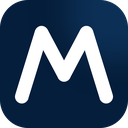
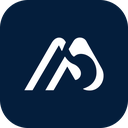
Restaura monograma oficial nos icones

Changed region(s): [[0.0938, 0.0, 1.0, 0.8125]]

diff --git a/template.html b/template.html
@@ -15,20 +15,21 @@
      PRECISA ficar dentro do <head> e vir no HTML de saida: a Meta le a fonte
      da pagina, nao o que o JavaScript monta depois. Nao remover. -->
 <meta name="facebook-domain-verification" content="8h4bx2xfl4rekh1p45nfbvz53jprns">
-<!-- Icone oficial (21/09/2026): o "M" branco sobre o azul, gerado por
-     gerar_icones.py com correcao optica para continuar legivel em 16 pixels.
-     Antes o monograma completo parecia um "A" quando reduzido na aba.
+<!-- Icone oficial (21/09/2026): o monograma branco original sobre o azul,
+     extraido por gerar_icones.py diretamente do logo do Dr. Marcello.
+     Nos tamanhos pequenos ele recebe apenas ampliacao e reforco de traco;
+     o desenho da marca nao e substituido nem redesenhado.
      favicon.ico vem primeiro porque navegador antigo so entende esse; os PNG
      abaixo e que os modernos usam de fato. -->
-<link rel="icon" href="%%ASSET:favicon.ico%%?v=2" sizes="any">
-<link rel="icon" type="image/png" sizes="32x32" href="%%ASSET:icone-32.png%%?v=2">
-<link rel="icon" type="image/png" sizes="16x16" href="%%ASSET:icone-16.png%%?v=2">
-<link rel="icon" type="image/png" sizes="192x192" href="%%ASSET:icone-192.png%%?v=2">
+<link rel="icon" href="%%ASSET:favicon.ico%%?v=3" sizes="any">
+<link rel="icon" type="image/png" sizes="32x32" href="%%ASSET:icone-32.png%%?v=3">
+<link rel="icon" type="image/png" sizes="16x16" href="%%ASSET:icone-16.png%%?v=3">
+<link rel="icon" type="image/png" sizes="192x192" href="%%ASSET:icone-192.png%%?v=3">
 <!-- Atalho na tela do celular. O arquivo do apple-touch vem quadrado e opaco
      de proposito: o iOS aplica a mascara arredondada dele por cima, e um
      arquivo ja arredondado seria cortado duas vezes. -->
-<link rel="apple-touch-icon" href="%%ASSET:apple-touch-icon.png%%?v=2">
-<link rel="manifest" href="%%ASSET:manifest.webmanifest%%?v=2">
+<link rel="apple-touch-icon" href="%%ASSET:apple-touch-icon.png%%?v=3">
+<link rel="manifest" href="%%ASSET:manifest.webmanifest%%?v=3">
 <meta name="apple-mobile-web-app-title" content="Dr. Marcello Ruiz">
 <link rel="preconnect" href="https://fonts.googleapis.com">
 <link rel="preconnect" href="https://fonts.gstatic.com" crossorigin>

diff --git a/docs/index.html b/docs/index.html
@@ -15,20 +15,21 @@
      PRECISA ficar dentro do <head> e vir no HTML de saida: a Meta le a fonte
      da pagina, nao o que o JavaScript monta depois. Nao remover. -->
 <meta name="facebook-domain-verification" content="8h4bx2xfl4rekh1p45nfbvz53jprns">
-<!-- Icone oficial (21/09/2026): o "M" branco sobre o azul, gerado por
-     gerar_icones.py com correcao optica para continuar legivel em 16 pixels.
-     Antes o monograma completo parecia um "A" quando reduzido na aba.
+<!-- Icone oficial (21/09/2026): o monograma branco original sobre o azul,
+     extraido por gerar_icones.py diretamente do logo do Dr. Marcello.
+     Nos tamanhos pequenos ele recebe apenas ampliacao e reforco de traco;
+     o desenho da marca nao e substituido nem redesenhado.
      favicon.ico vem primeiro porque navegador antigo so entende esse; os PNG
      abaixo e que os modernos usam de fato. -->
-<link rel="icon" href="assets/favicon.ico?v=2" sizes="any">
-<link rel="icon" type="image/png" sizes="32x32" href="assets/icone-32.png?v=2">
-<link rel="icon" type="image/png" sizes="16x16" href="assets/icone-16.png?v=2">
-<link rel="icon" type="image/png" sizes="192x192" href="assets/icone-192.png?v=2">
+<link rel="icon" href="assets/favicon.ico?v=3" sizes="any">
+<link rel="icon" type="image/png" sizes="32x32" href="assets/icone-32.png?v=3">
+<link rel="icon" type="image/png" sizes="16x16" href="assets/icone-16.png?v=3">
+<link rel="icon" type="image/png" sizes="192x192" href="assets/icone-192.png?v=3">
 <!-- Atalho na tela do celular. O arquivo do apple-touch vem quadrado e opaco
      de proposito: o iOS aplica a mascara arredondada dele por cima, e um
      arquivo ja arredondado seria cortado duas vezes. -->
-<link rel="apple-touch-icon" href="assets/apple-touch-icon.png?v=2">
-<link rel="manifest" href="assets/manifest.webmanifest?v=2">
+<link rel="apple-touch-icon" href="assets/apple-touch-icon.png?v=3">
+<link rel="manifest" href="assets/manifest.webmanifest?v=3">
 <meta name="apple-mobile-web-app-title" content="Dr. Marcello Ruiz">
 <link rel="preconnect" href="https://fonts.googleapis.com">
 <link rel="preconnect" href="https://fonts.gstatic.com" crossorigin>

diff --git a/gerar_icones.py b/gerar_icones.py
@@ -1,107 +1,108 @@
-"""Gera todos os icones do site e do PWA do Dr. Marcello.
+# Gera o jogo de icones (favicon, atalho de celular, PWA) a partir do "M" do
+# logo. Rode de novo sempre que a marca mudar; nao edite os PNG na mao.
+#
+# A fonte e o proprio logo do site (logo-dr-marcello.png), nao uma imagem
+# solta: o "M" de la e o unico que vai continuar igual quando a marca mudar.
+# Ele vem em dois tons escuros, para fundo claro; aqui vira branco solido,
+# que e como o icone oficial (21/09/2026) mostra a marca sobre o azul.
 
-O simbolo completo do logo funciona bem em tamanho grande, mas perde a leitura
-na aba do navegador. Por isso os icones usam uma versao opticamente corrigida:
-um M geometrico, com o mesmo gesto inclinado da marca, traco branco mais largo
-e espaco negativo suficiente para continuar legivel em 16 x 16 pixels.
-"""
-
-from pathlib import Path
 from PIL import Image, ImageDraw, ImageFilter
+from pathlib import Path
 
-
-FUNDO = (4, 30, 60)  # #041E3C
-BRANCO = (255, 255, 255, 255)
+FUNDO = (4, 30, 60)          # #041E3C - amostrado do icone oficial
 MASTER = 1024
 
+def m_branco(origem: Path) -> Image.Image:
+    """O 'M' do logo, recortado e pintado de branco solido."""
+    logo = Image.open(origem).convert("RGBA")
+    # Primeiro bloco horizontal com tinta = o simbolo; o resto e o texto.
+    import numpy as np
+    a = np.array(logo.split()[3])
+    cols = (a > 10).sum(axis=0)
+    ini = next(i for i, v in enumerate(cols) if v > 0)
+    fim = ini
+    for i in range(ini, len(cols)):
+        if cols[i] > 0:
+            fim = i
+        elif i - fim > 10:
+            break
+    sim = logo.crop((ini, 0, fim + 1, logo.height))
+    sim = sim.crop(sim.split()[3].getbbox())
+    branco = Image.new("RGBA", sim.size, (255, 255, 255, 0))
+    branco.putalpha(sim.split()[3])
+    branco.paste((255, 255, 255), (0, 0), sim.split()[3])
+    branco.putalpha(sim.split()[3])
+    return branco
 
-def fundo(lado: int, raio: float, opaco: bool = False) -> Image.Image:
-    """Cria a placa azul com um brilho discreto no canto superior direito."""
-    base = Image.new("RGBA", (lado, lado), (0, 0, 0, 0))
-    mascara = Image.new("L", (lado, lado), 0)
-    md = ImageDraw.Draw(mascara)
-    r = 0 if opaco else round(lado * raio)
-    md.rounded_rectangle((0, 0, lado - 1, lado - 1), radius=r, fill=255)
 
-    placa = Image.new("RGBA", (lado, lado), FUNDO + (255,))
-    brilho = Image.new("RGBA", (lado, lado), (0, 0, 0, 0))
-    bd = ImageDraw.Draw(brilho)
-    bd.ellipse(
-        (lado * 0.42, -lado * 0.28, lado * 1.28, lado * 0.58),
-        fill=(28, 83, 139, 82),
-    )
-    brilho = brilho.filter(ImageFilter.GaussianBlur(lado * 0.14))
-    placa = Image.alpha_composite(placa, brilho)
-    base.paste(placa, (0, 0), mascara)
-    return base
+def engrossar(m: Image.Image, px: int) -> Image.Image:
+    """Engorda o traco do M dilatando o alfa.
+
+    Existe por causa da aba do navegador. Ali o icone tem 16 a 20 pixels de
+    lado: o "M" inteiro cabe em ~400 pixels, e os bracos dele ficam com menos
+    de um pixel de espessura. O navegador entao pinta cinza claro em vez de
+    branco (antialiasing), e a marca some no azul - foi o que apareceu na aba
+    em 21/09/2026. Engordar o traco antes de encolher devolve o contraste.
+
+    So vale para os tamanhos miudos. Em 192 ou 512 isso deformaria a marca.
+    """
+    a = m.split()[3].filter(ImageFilter.MaxFilter(px * 2 + 1))
+    out = Image.new("RGBA", m.size, (255, 255, 255, 0))
+    out.paste((255, 255, 255), (0, 0), a)
+    out.putalpha(a)
+    return out
 
 
-def desenhar_m(img: Image.Image, ocupa: float, traco: float) -> None:
-    """Desenha um M simples e inequívoco, com pontas e encontros arredondados."""
-    lado = img.width
-    largura = lado * ocupa
-    x0 = (lado - largura) / 2
-    x1 = x0 + largura
-    topo = lado * 0.255
-    base = lado * 0.755
-    meio = lado * 0.585
-    pontos = [
-        (x0, base),
-        (x0 + largura * 0.235, topo),
-        (x0 + largura * 0.500, meio),
-        (x0 + largura * 0.765, topo),
-        (x1, base),
-    ]
-    espessura = max(1, round(lado * traco))
+def placa(m: Image.Image, lado: int, ocupa: float, raio: float) -> Image.Image:
+    """Quadrado azul com o M centralizado. `ocupa` = fracao da largura."""
+    img = Image.new("RGBA", (lado, lado), (0, 0, 0, 0))
     d = ImageDraw.Draw(img)
-    d.line(pontos, fill=BRANCO, width=espessura, joint="curve")
-    raio = espessura / 2
-    for x, y in pontos:
-        d.ellipse((x - raio, y - raio, x + raio, y + raio), fill=BRANCO)
-
-
-def icone(lado: int, ocupa: float, traco: float, raio: float, opaco: bool = False) -> Image.Image:
-    img = fundo(lado, raio, opaco=opaco)
-    desenhar_m(img, ocupa, traco)
+    if raio > 0:
+        d.rounded_rectangle([0, 0, lado - 1, lado - 1], radius=int(lado * raio), fill=FUNDO + (255,))
+    else:
+        d.rectangle([0, 0, lado - 1, lado - 1], fill=FUNDO + (255,))
+    lw = int(lado * ocupa)
+    lh = round(m.height * lw / m.width)
+    mm = m.resize((lw, lh), Image.LANCZOS)
+    img.paste(mm, ((lado - lw) // 2, (lado - lh) // 2), mm)
     return img
 
 
-def gerar(_origem: Path, saida: Path) -> None:
+def gerar(origem: Path, saida: Path):
     saida.mkdir(parents=True, exist_ok=True)
+    m = m_branco(origem)
 
-    # Icones comuns e do instalador PWA.
-    mestre = icone(MASTER, ocupa=0.66, traco=0.105, raio=0.22)
+    # "any": canto arredondado como o icone oficial.
+    mestre = placa(m, MASTER, 0.62, 0.22)
     for lado in (512, 192, 128, 64):
-        mestre.resize((lado, lado), Image.Resampling.LANCZOS).save(
-            saida / f"icone-{lado}.png", optimize=True
-        )
+        mestre.resize((lado, lado), Image.LANCZOS).save(saida / f"icone-{lado}.png", optimize=True)
 
-    # Correcao optica para abas e favoritos: M maior, mais grosso e com menos
-    # arredondamento na placa. Assim ele nao vira um triangulo em 16 pixels.
-    pequeno = icone(MASTER, ocupa=0.79, traco=0.135, raio=0.15)
+    # 16 e 32 nao saem do mestre: encolher o icone inteiro joga o "M" em 10
+    # pixels e ele vira mancha. Nesses tamanhos o M ocupa mais da placa e o
+    # canto arredonda menos - e o que o navegador mostra na aba, onde a marca
+    # precisa ser reconhecida, nao admirada.
+    miudo = placa(engrossar(m, 14), MASTER, 0.80, 0.14)
     for lado in (48, 32, 16):
-        pequeno.resize((lado, lado), Image.Resampling.LANCZOS).save(
-            saida / f"icone-{lado}.png", optimize=True
-        )
+        miudo.resize((lado, lado), Image.LANCZOS).save(saida / f"icone-{lado}.png", optimize=True)
 
-    pequeno.resize((48, 48), Image.Resampling.LANCZOS).save(
+    # favicon.ico com as tres medidas que o Windows e navegadores antigos pedem.
+    miudo.resize((48, 48), Image.LANCZOS).save(
         saida / "favicon.ico", sizes=[(16, 16), (32, 32), (48, 48)]
     )
 
-    # O iOS e o Android aplicam suas proprias mascaras. Nesses dois arquivos o
-    # azul vai ate a borda; no maskable o M fica dentro da zona segura central.
-    icone(180, ocupa=0.66, traco=0.105, raio=0, opaco=True).convert("RGB").save(
-        saida / "apple-touch-icon.png", optimize=True
-    )
-    icone(512, ocupa=0.50, traco=0.080, raio=0, opaco=True).save(
-        saida / "icone-maskable-512.png", optimize=True
-    )
+    # apple-touch-icon: SEM canto arredondado e SEM transparencia. O iOS aplica
+    # a mascara dele por cima; se o arquivo ja vier arredondado, o corte
+    # acontece duas vezes e sobra um contorno escuro no canto.
+    placa(m, 180, 0.62, 0).convert("RGB").save(saida / "apple-touch-icon.png", optimize=True)
 
-    for arquivo in sorted(saida.iterdir()):
-        print(f"  {arquivo.name}  {arquivo.stat().st_size / 1024:.1f} KB")
+    # maskable (Android): o sistema pode cortar ate 20% de cada borda, entao o
+    # M encolhe para caber na zona segura e o azul sangra ate a borda.
+    placa(m, 512, 0.48, 0).save(saida / "icone-maskable-512.png", optimize=True)
+
+    for f in sorted(saida.iterdir()):
+        print(f"  {f.name}  {f.stat().st_size / 1024:.1f} KB")
 
 
 if __name__ == "__main__":
     import sys
-
     gerar(Path(sys.argv[1]), Path(sys.argv[2]))
